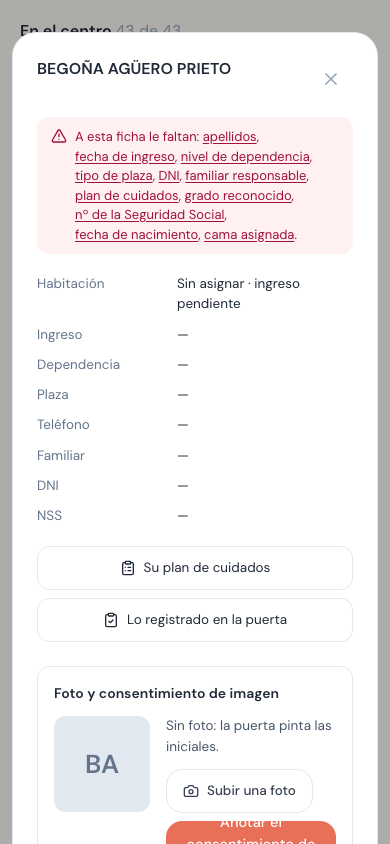
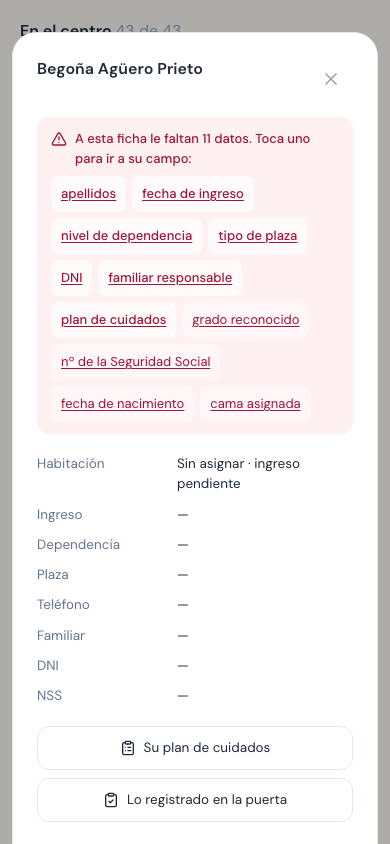
feat(residencia): los nombres se enseñan en formato de nombre, y la tarjeta del panel se lee
Dos cosas que encontró el bucle visual contra la stack de verdad, con las
43 fichas de Jardín de Gredos dentro.

Los nombres salían como se guardan. Decisión 7 del bloque: se guardan
como vienen —el listado del centro está en mayúsculas y el original es lo
que coincide con el papel que la dirección tiene delante— y **se enseñan
en formato de nombre**. Cuarenta y tres nombres a gritos no se leen. Un
nombre ya escrito a mano no se toca.

Y la tarjeta del panel listaba los datos que le faltan a cada residente:
con once por persona y cinco personas, eran quince renglones de texto
corrido. Una tarjeta que no se lee es una tarjeta que no se mira, que es
lo contrario de lo que existe para conseguir. Ahora dice el número y si
hay algo imprescindible; el detalle está en su ficha, a un toque.

diff --git a/apps/admin/test/alta-minima-pantallas.test.tsx b/apps/admin/test/alta-minima-pantallas.test.tsx
@@ -321,7 +321,8 @@ describe("alta-minima · la lista de residentes", () => {
     expect(casilla).toBeDefined();
     expect(casilla!.checked).toBe(true);
     const texto = container.textContent ?? "";
-    expect(texto).toContain("ABEL RAMOS DOBLADO");
+    // En formato de nombre: lo guardado está en mayúsculas (decisión 7).
+    expect(texto).toContain("Abel Ramos Doblado");
     expect(texto).toContain("Carmen del Río");
     // La completa NO está: el filtro está puesto.
     expect(texto).not.toContain("Luis Prieto");
@@ -366,6 +367,18 @@ describe("alta-minima · la lista de residentes", () => {
     resumen = { total: 1, incompletas: 0, datosPendientes: 0, conImprescindibles: 0 };
     await pintar(ResidentesPage);
     expect(container.textContent).not.toContain("Falta");
+  });
+
+  it("alta-minima · los nombres EN MAYÚSCULAS se enseñan en formato de nombre", async () => {
+    // Decisión 7: se guardan como vienen —el listado del centro está en
+    // mayúsculas y el original es lo que coincide con el papel— y se
+    // enseñan legibles. Cuarenta y tres nombres a gritos no se leen.
+    await pintar(ResidentesPage);
+    const texto = container.textContent ?? "";
+    expect(texto).toContain("Abel Ramos Doblado");
+    expect(texto).not.toContain("ABEL RAMOS DOBLADO");
+    // Y el que ya estaba escrito a mano NO se toca.
+    expect(texto).toContain("Carmen del Río");
   });
 
   it("un residente SIN nivel ni plaza no pinta píldoras vacías", async () => {
@@ -433,7 +446,7 @@ describe("alta-minima · «Nuevo ingreso»", () => {
 describe("alta-minima · la banda de la ficha", () => {
   async function abrirFichaDeAbel() {
     await pintar(ResidentesPage);
-    await pulsar(botonQueContiene("ABEL RAMOS DOBLADO")!);
+    await pulsar(botonQueContiene("Abel Ramos Doblado")!);
   }
 
   it("dice lo que falta, dato por dato", async () => {
@@ -517,7 +530,7 @@ describe("alta-minima · la banda de la ficha", () => {
     resumen = { total: 1, incompletas: 1, datosPendientes: 1, conImprescindibles: 1 };
     act(() => root?.unmount());
     await pintar(ResidentesPage);
-    await pulsar(botonQueContiene("ABEL RAMOS DOBLADO")!);
+    await pulsar(botonQueContiene("Abel Ramos Doblado")!);
     const boton = botonQueContiene("Cargar el plan de cuidados de «dependiente»")!;
     expect(boton).toBeDefined();
     await pulsar(boton);
@@ -537,7 +550,7 @@ describe("alta-minima · la banda de la ficha", () => {
     resumen = { total: 2, incompletas: 1, datosPendientes: 11, conImprescindibles: 1 };
     act(() => root?.unmount());
     await pintar(ResidentesPage);
-    await pulsar(botonQueContiene("ABEL RAMOS DOBLADO")!);
+    await pulsar(botonQueContiene("Abel Ramos Doblado")!);
     expect(botonQueContiene("pasar a la siguiente incompleta")).toBeUndefined();
   });
 });
@@ -647,13 +660,17 @@ describe("alta-minima · la tarjeta del panel de dirección", () => {
   it("y cada nombre abre SU ficha, con lo que le falta al lado", async () => {
     await pintar(PanelPage);
     const abel = [...container.querySelectorAll("a")].find(
-      (a) => a.textContent?.trim() === "ABEL RAMOS DOBLADO",
+      (a) => a.textContent?.trim() === "Abel Ramos Doblado",
     )!;
     expect(abel.getAttribute("href")).toBe(
       `/admin/residencia/residentes?completar=${ABEL}`,
     );
-    expect(container.textContent).toContain("fecha de ingreso, nivel de dependencia");
+    // El NÚMERO, no la lista entera: con once datos por residente la
+    // tarjeta sería un muro de texto. El detalle está en su ficha.
+    expect(container.textContent).toContain("faltan 11 datos");
+    expect(container.textContent).toContain("alguno imprescindible");
     expect(container.textContent).toContain("habitación 112");
+    expect(container.textContent).not.toContain("nº de la Seguridad Social");
   });
 
   it("sin ninguna incompleta, la tarjeta NO EXISTE", async () => {

diff --git a/apps/admin/src/pages/residencia/ResidentesPage.tsx b/apps/admin/src/pages/residencia/ResidentesPage.tsx
@@ -73,6 +73,7 @@ import {
 import {
   fechaCorta,
   hoyISO,
+  nombreVisible,
   NIVEL_LABEL,
   PLAZA_LABEL,
   type NivelDependencia,
@@ -430,8 +431,12 @@ function Tabla({
               onClick={() => onFicha(f)}
               className="min-h-[44px] w-full min-w-0 text-left sm:w-auto sm:flex-1 sm:basis-48"
             >
+              {/* alta-minima · en formato de nombre, no como viene. El
+                  listado del primer día está en mayúsculas y cuarenta y
+                  tres nombres a gritos no se leen. Lo guardado no se
+                  toca: ver `nombreVisible`. */}
               <span className="block truncate text-[14.5px] font-medium text-mipiace-ink">
-                {f.nombre}
+                {nombreVisible(f.nombre)}
               </span>
               <span className="block text-[12.5px] text-slate-500">
                 {f.cama
@@ -783,7 +788,7 @@ function ModalFicha({
   }
 
   return (
-    <Modal title={residente.nombre} onClose={onClose}>
+    <Modal title={nombreVisible(residente.nombre)} onClose={onClose}>
       {/* alta-minima · LA BANDA, lo primero que se ve, con un enlace por
           dato. Se va sola cuando la ficha está completa. */}
       <BandaDeLoQueFalta faltan={residente.faltan} />
@@ -962,7 +967,7 @@ function ModalCama({
   }
 
   return (
-    <Modal title={`Habitación de ${residente.nombre}`} onClose={onClose}>
+    <Modal title={`Habitación de ${nombreVisible(residente.nombre)}`} onClose={onClose}>
       <p className="mb-4 text-[13.5px] text-slate-500">
         {residente.cama
           ? `Ahora está en la ${residente.cama.roomNumber}, cama ${residente.cama.bedLabel}. Cambiarla cierra esa ocupación y abre otra: queda el histórico.`
@@ -1035,7 +1040,7 @@ function ModalDarDeAlta({
   }
 
   return (
-    <Modal title={`Dar de alta a ${residente.nombre}`} onClose={onClose}>
+    <Modal title={`Dar de alta a ${nombreVisible(residente.nombre)}`} onClose={onClose}>
       {/* La frase importa: en una residencia «dar de alta» es que alguien se
           va, y la dirección tiene que leer que su ficha NO se borra. */}
       <p className="mb-4 text-[13.5px] text-slate-500">

diff --git a/apps/admin/src/pages/residencia/PanelPage.tsx b/apps/admin/src/pages/residencia/PanelPage.tsx
@@ -43,6 +43,8 @@ import {
   type Panel,
 } from "./relevo-lib.js";
 import { colorDelNivel } from "./incidencias-lib.js";
+// alta-minima · «ABEL RAMOS DOBLADO» → «Abel Ramos Doblado». Decisión 7.
+import { faltanEnPalabras, nombreVisible } from "./lib.js";
 
 export function PanelPage() {
   const [panel, setPanel] = useState<Panel | null>(null);
@@ -185,12 +187,22 @@ export function PanelPage() {
                     to={`/admin/residencia/residentes?completar=${r.clientId}`}
                     className="underline"
                   >
-                    {r.nombre}
+                    {nombreVisible(r.nombre)}
                   </Link>
+                  {/* alta-minima · el NÚMERO, no la lista entera. Lo
+                      encontró el bucle visual: con once datos por
+                      residente y cinco residentes, la tarjeta era un
+                      muro de texto de quince renglones que no se lee —
+                      y una tarjeta que no se lee es una tarjeta que no
+                      se mira, que es lo contrario de lo que esto existe
+                      para conseguir. El detalle está en SU ficha, a un
+                      toque. */}
                   <span className="text-slate-600">
                     {r.habitacion && ` · habitación ${r.habitacion}`}
                     {" · "}
-                    {r.faltan.map((f) => f.etiqueta).join(", ")}
+                    {faltanEnPalabras(r.faltan).toLocaleLowerCase("es-ES")}
+                    {r.faltan.some((f) => f.peso === "IMPRESCINDIBLE") &&
+                      ", alguno imprescindible"}
                   </span>
                 </li>
               ))}

diff --git a/apps/admin/src/pages/residencia/lib.ts b/apps/admin/src/pages/residencia/lib.ts
@@ -13,6 +13,7 @@
 // historia-1 añada uno a su checklist la pantalla no lo sabría. Lo que SÍ
 // vive aquí es a qué input lleva cada campo, que es cosa de la pantalla.
 
+import { enFormatoDeNombre } from "@mipiacetpv/residencia-plan";
 import type { CampoDeFicha, DatoQueFalta } from "@mipiacetpv/residencia-plan";
 
 export type {
@@ -128,6 +129,25 @@ export interface ResumenDeFichas {
  */
 export function faltanEnPalabras(faltan: DatoQueFalta[]): string {
   return faltan.length === 1 ? "Falta 1 dato" : `Faltan ${faltan.length} datos`;
+}
+
+/**
+ * alta-minima · **EL NOMBRE DE UN RESIDENTE, PARA ENSEÑARLO.**
+ *
+ * «ABEL RAMOS DOBLADO» → «Abel Ramos Doblado». Es la decisión 7 del
+ * bloque: los nombres **se guardan como vienen** —el listado del centro
+ * está en mayúsculas y el original es lo que coincide con el papel que la
+ * dirección tiene delante— y **se enseñan en formato de nombre**, porque
+ * una lista de cuarenta y tres residentes a gritos es ilegible.
+ *
+ * Un nombre escrito a mano no se toca: ver `enFormatoDeNombre`.
+ *
+ * Vive aquí, al lado de `NIVEL_LABEL`, por lo mismo: si cada pantalla lo
+ * hiciera por su cuenta, dos acabarían enseñando el mismo nombre distinto
+ * — y la lista y la ficha se miran seguidas.
+ */
+export function nombreVisible(nombre: string): string {
+  return enFormatoDeNombre(nombre);
 }
 
 export type NivelDependencia = "VALIDO" | "SEMIASISTIDO" | "DEPENDIENTE";
